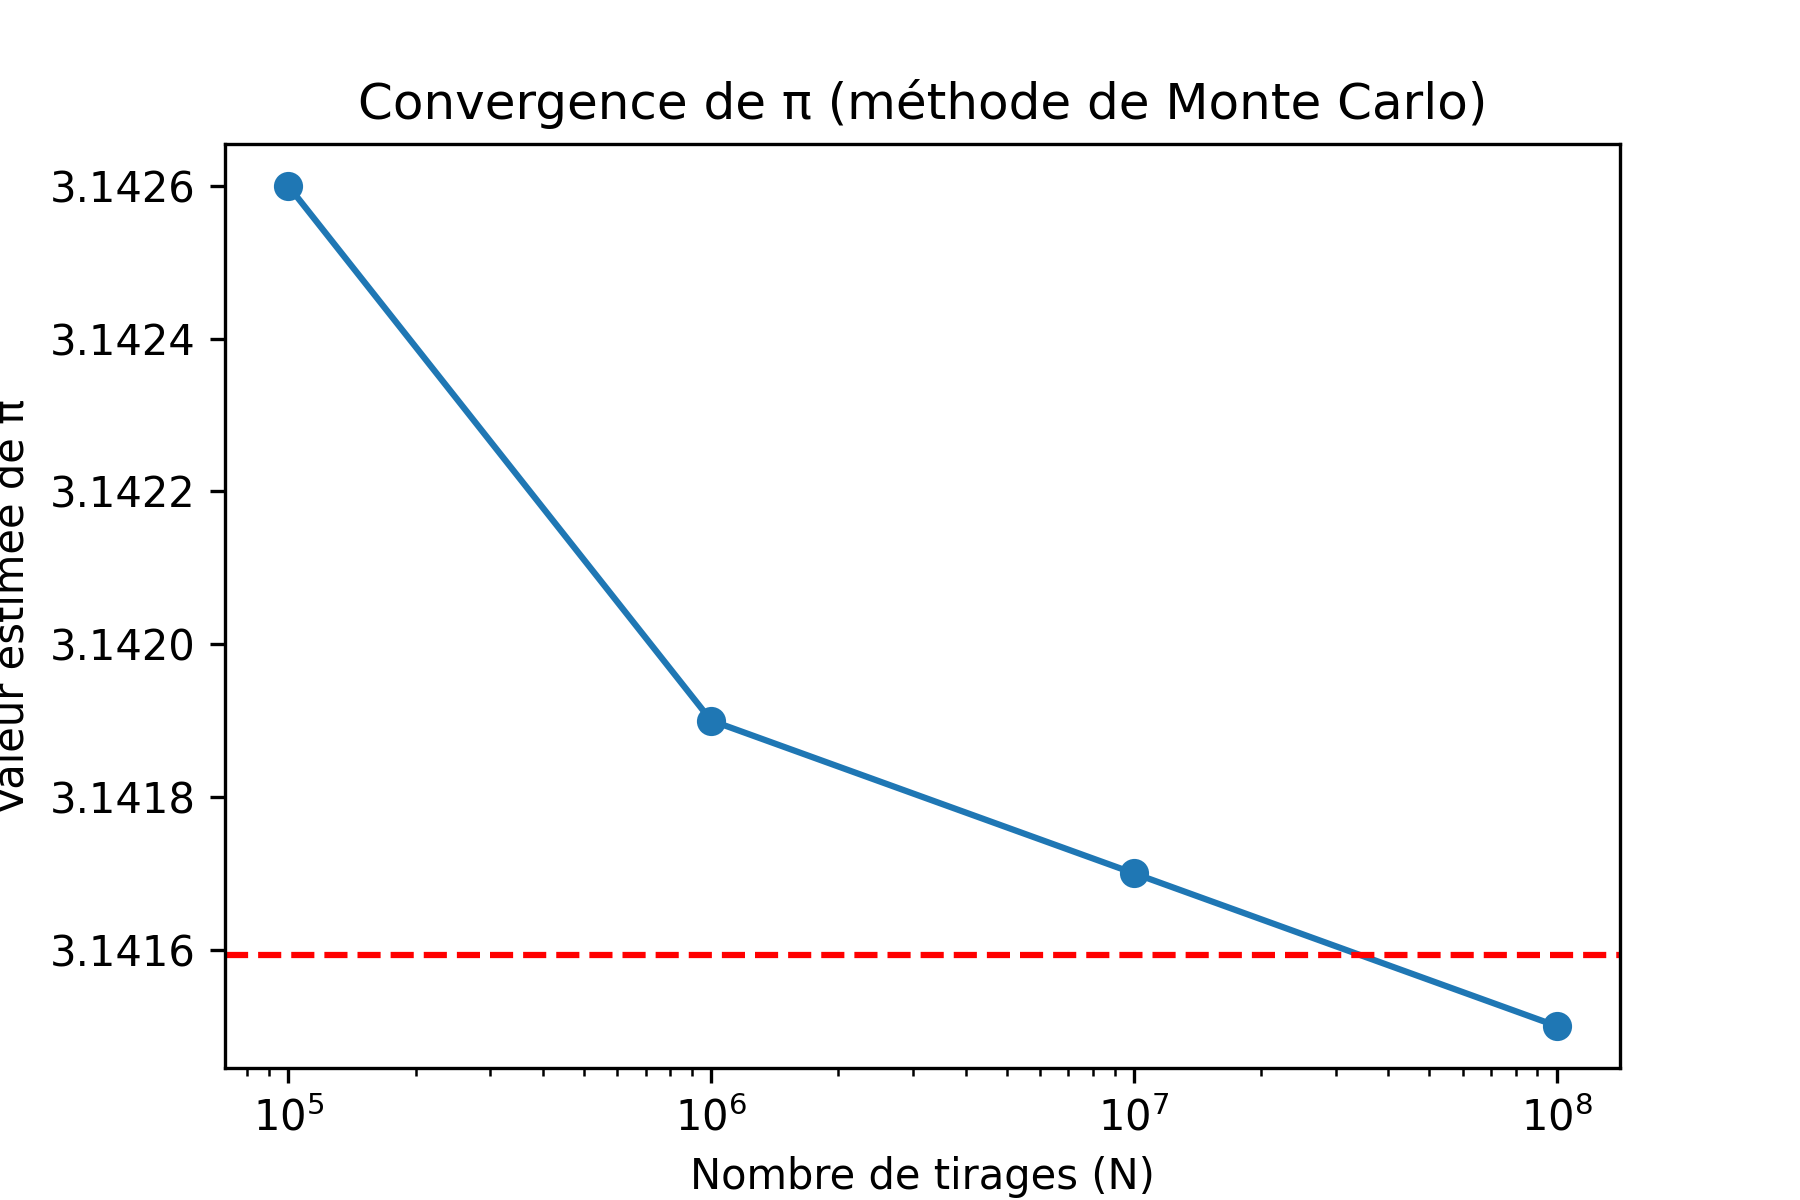
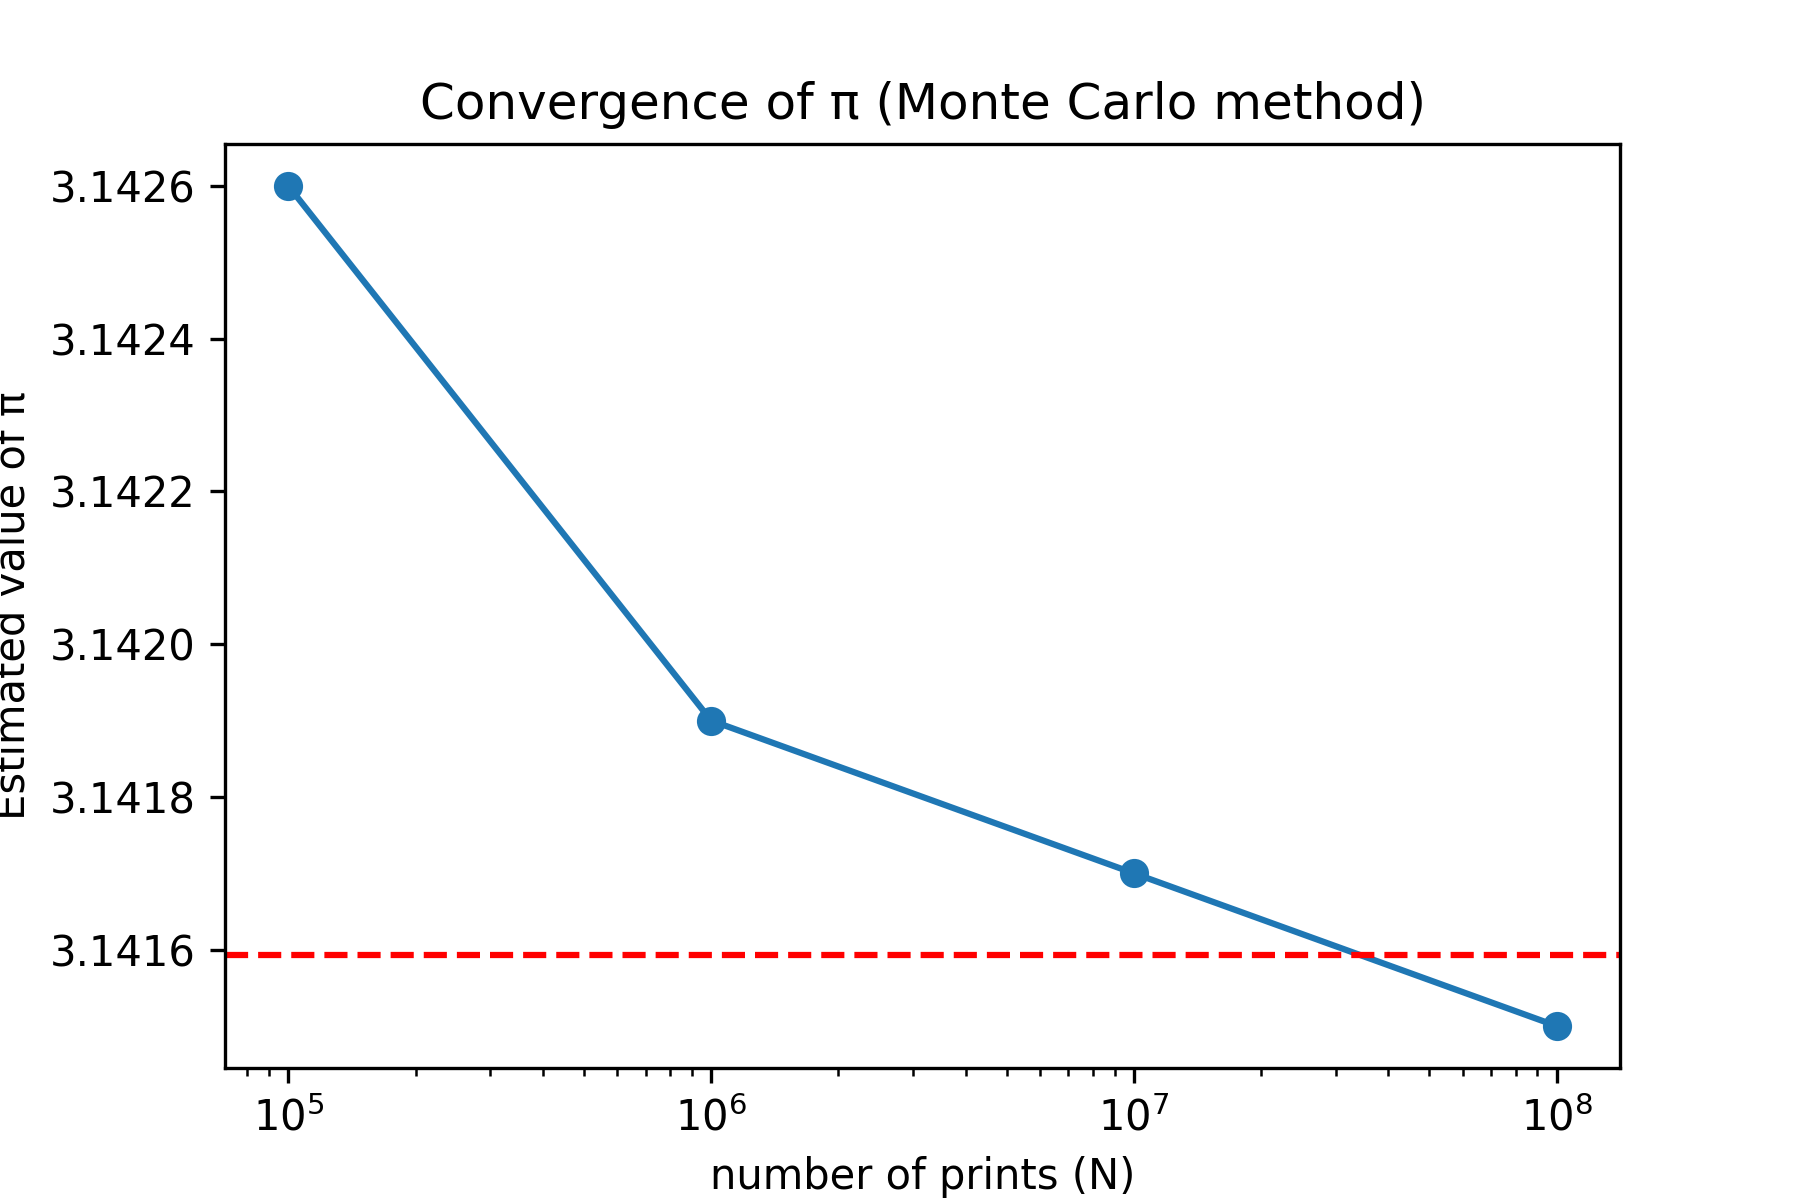
sixth commit

Changed region(s): [[0.1867, 0.0617, 0.84, 0.1233], [0.3733, 0.9558, 0.6533, 1.0], [0.0, 0.3083, 0.0311, 0.6783]]

diff --git a/results/plot_convergence.py b/results/plot_convergence.py
@@ -12,9 +12,9 @@ plt.figure(figsize=(6,4))
 plt.plot(df["N"], df["pi"], "o-", label="Estimation de π")
 plt.axhline(3.1415926535, color="r", linestyle="--", label="Valeur réelle de π")
 plt.xscale("log")
-plt.xlabel("Nombre de tirages (N)")
-plt.ylabel("Valeur estimée de π")
-plt.title("Convergence de π (méthode de Monte Carlo)")
+plt.xlabel("number of prints (N)")
+plt.ylabel("Estimated value of π")
+plt.title("Convergence of π (Monte Carlo method)")
 plt.savefig("convergence.png", dpi=300)
 plt.legend()
 plt.grid()
